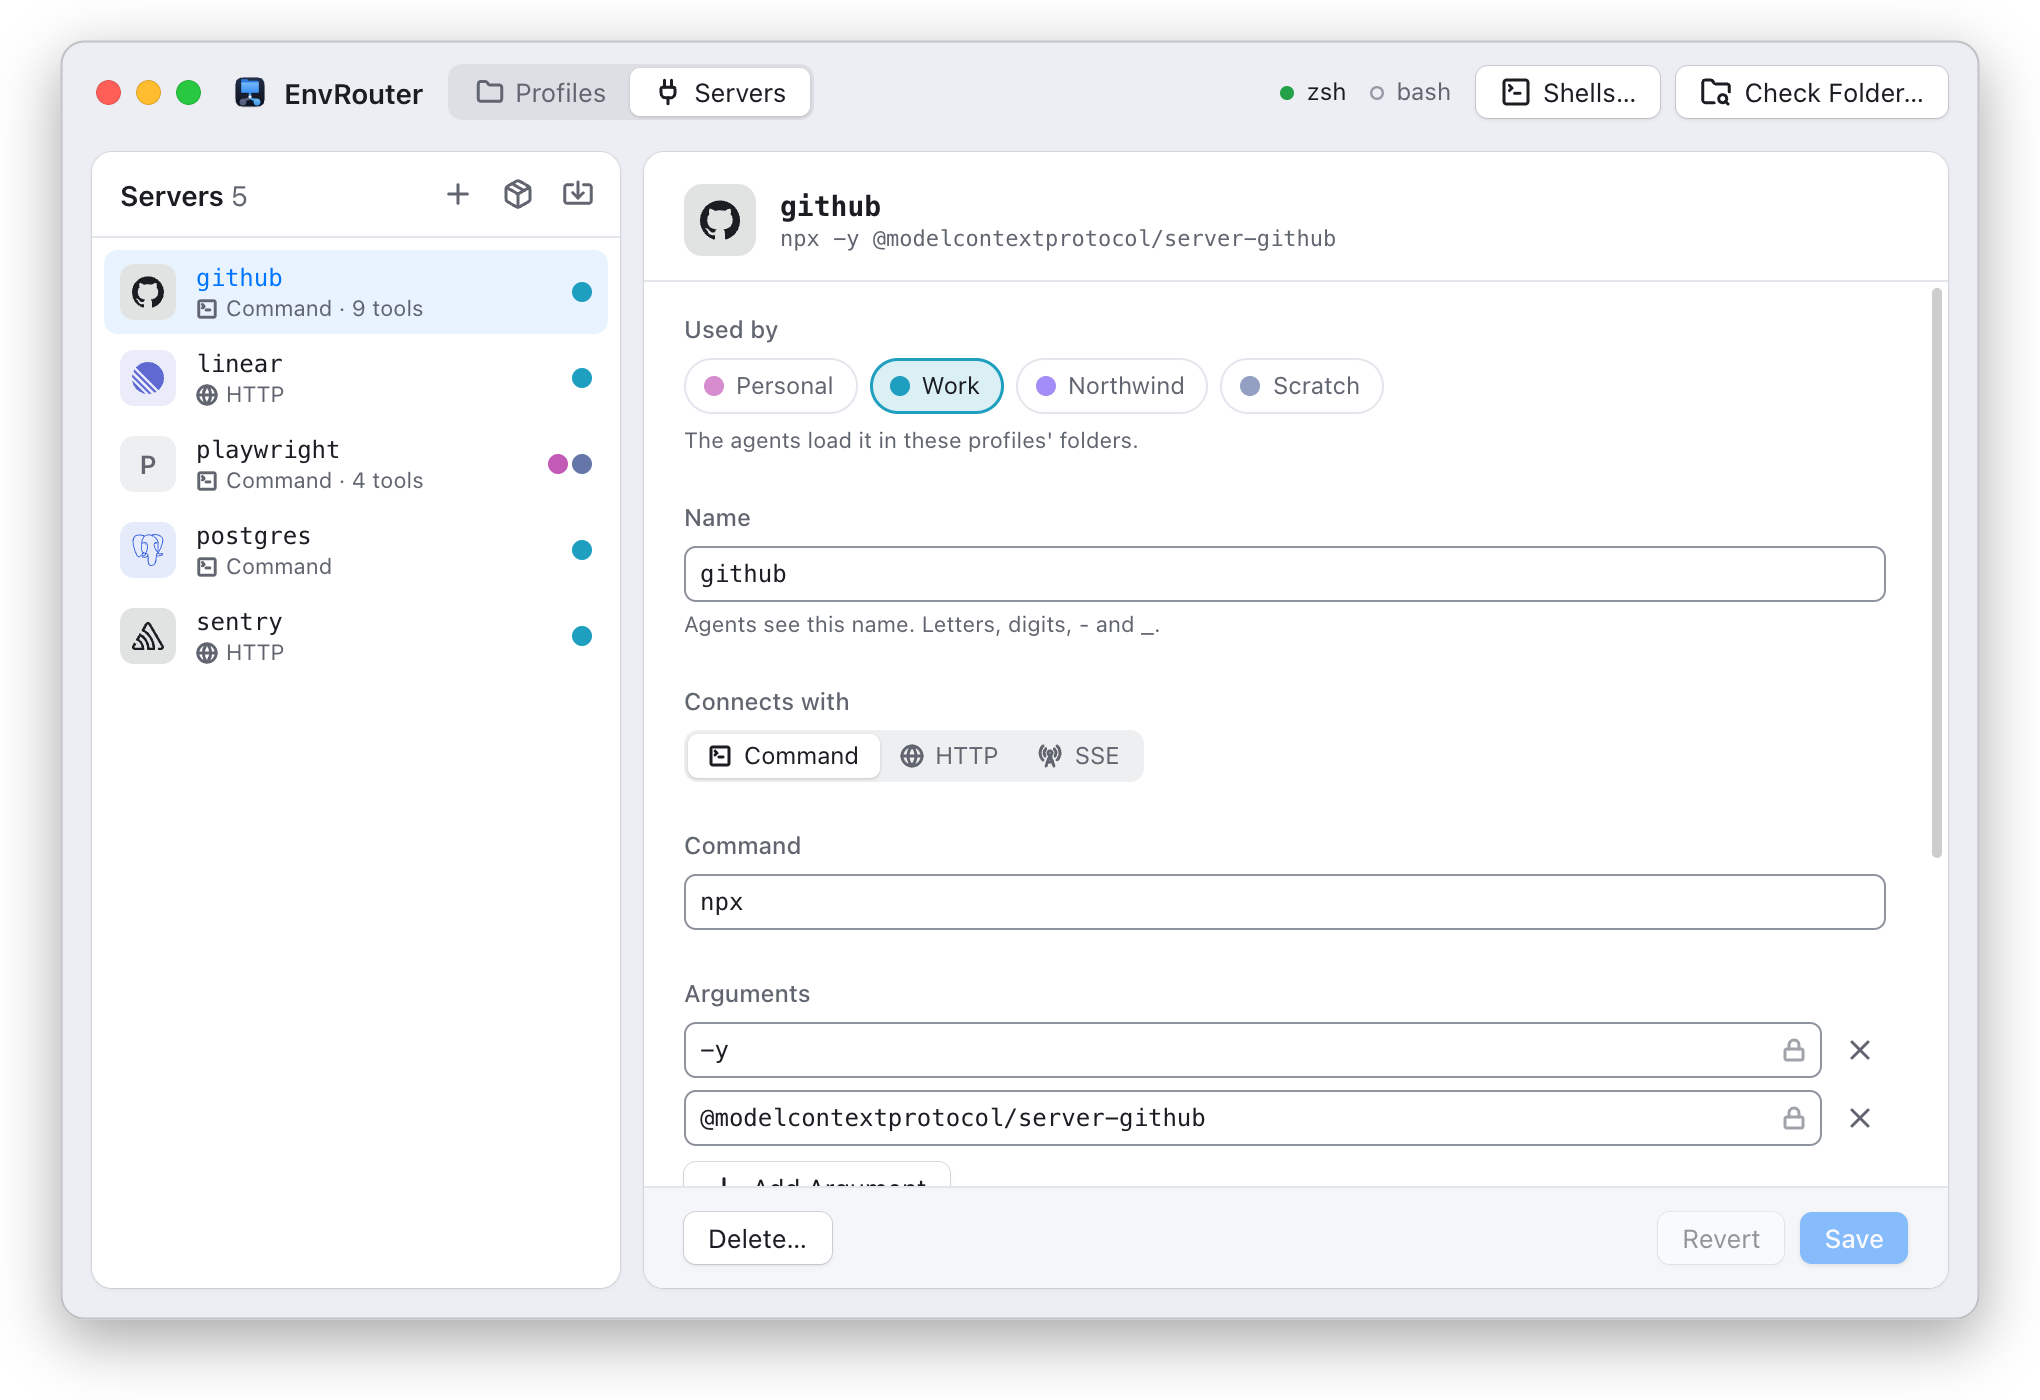
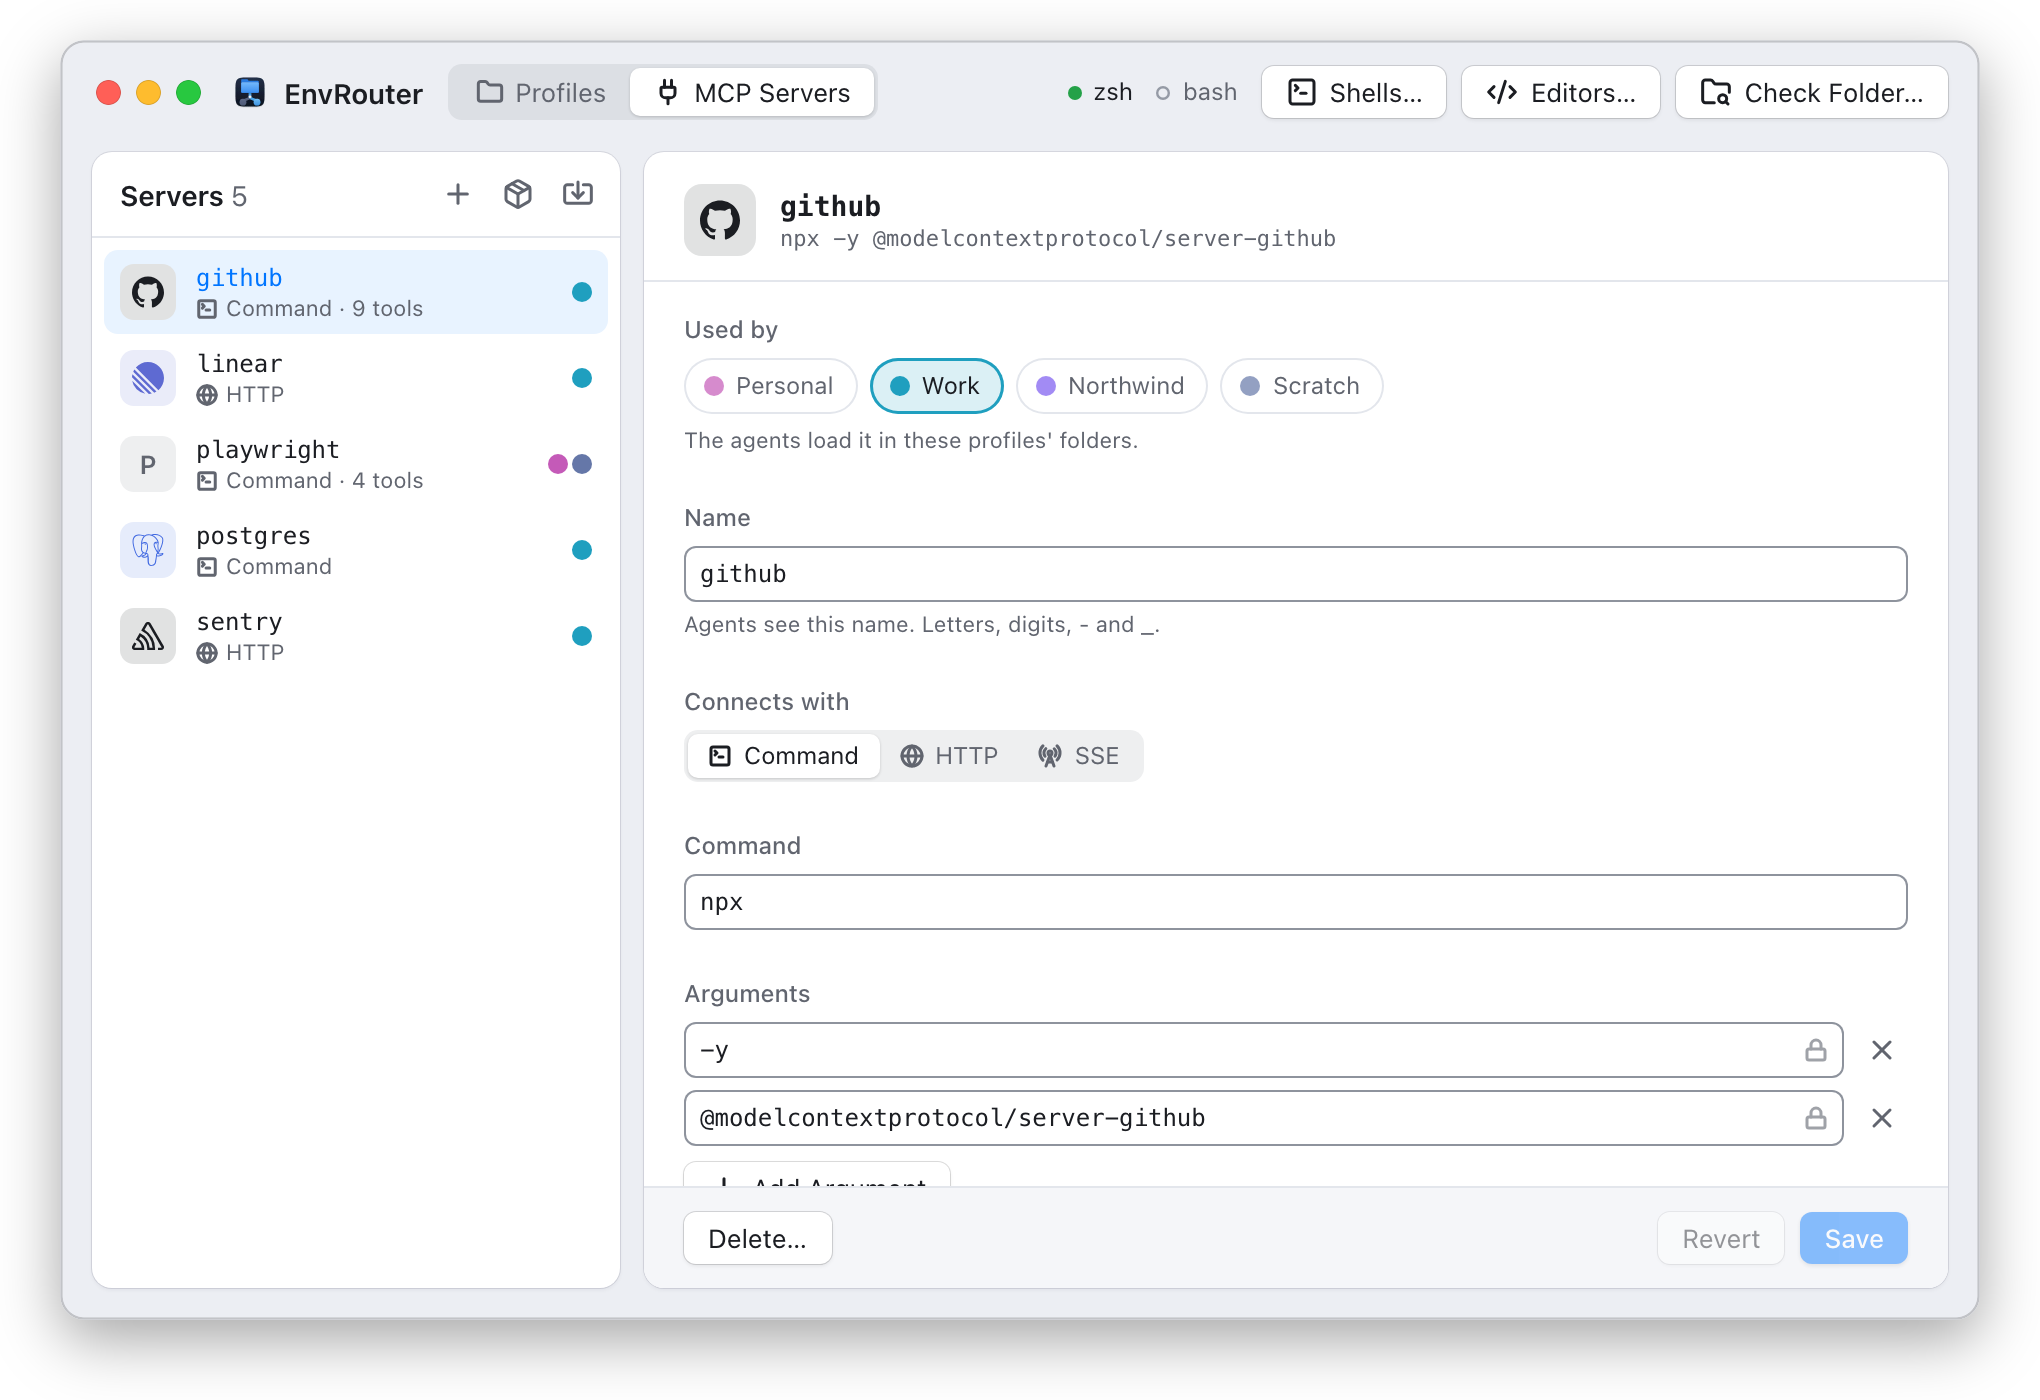
Retake the README screenshots for the new titlebar
The titlebar now has the MCP Servers tab and the Editors… button. The new
captures come from the same mock states (the mcp scenario, a check of
~/dev/work/api, github selected), composited into the existing frames.

diff --git a/README.md b/README.md
@@ -58,7 +58,7 @@ selection of MCP servers from a library you keep in the app:
 <p align="center">
   <picture>
     <source media="(prefers-color-scheme: dark)" srcset="docs/images/servers-dark.png" />
-    <img src="docs/images/servers-light.png" width="860" alt="The Servers view: a list of five MCP servers (github, linear, playwright, postgres, sentry) beside the editor for github, whose Used by toggles show it loads in the Work profile." />
+    <img src="docs/images/servers-light.png" width="860" alt="The MCP Servers view: a list of five MCP servers (github, linear, playwright, postgres, sentry) beside the editor for github, whose Used by toggles show it loads in the Work profile." />
   </picture>
 </p>
 
